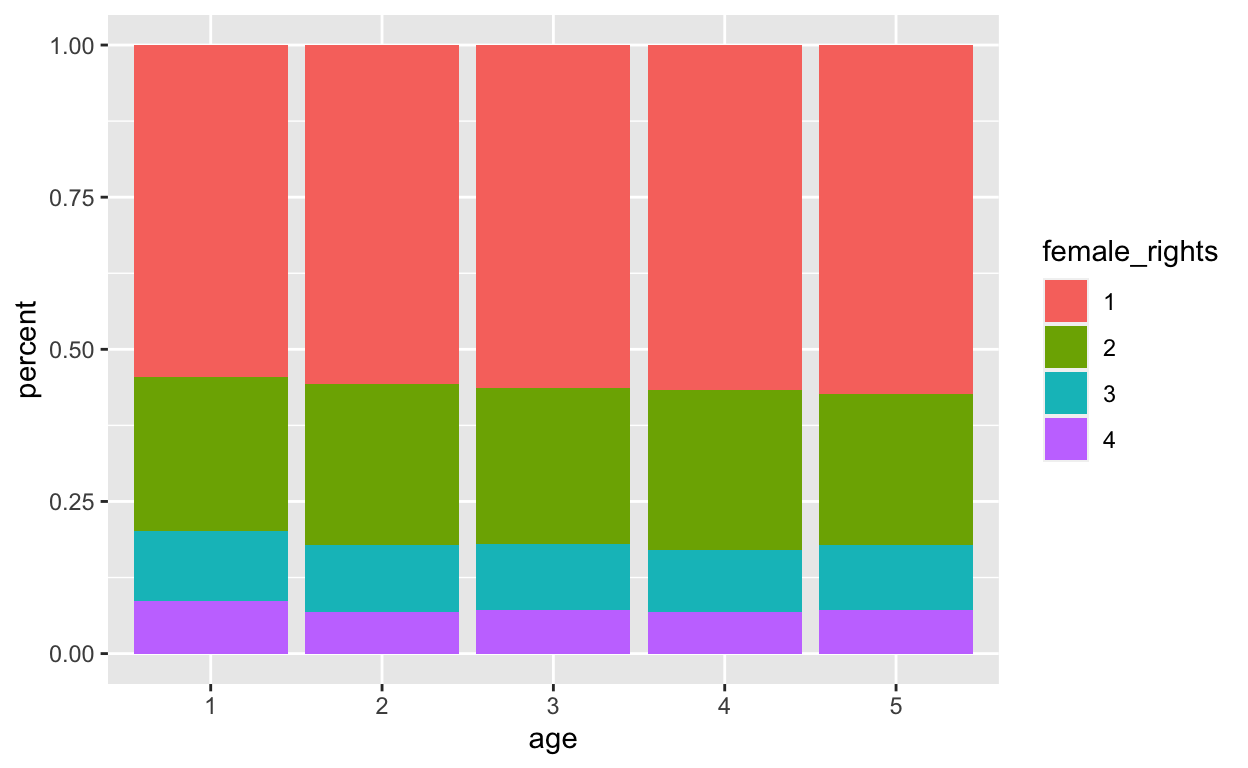
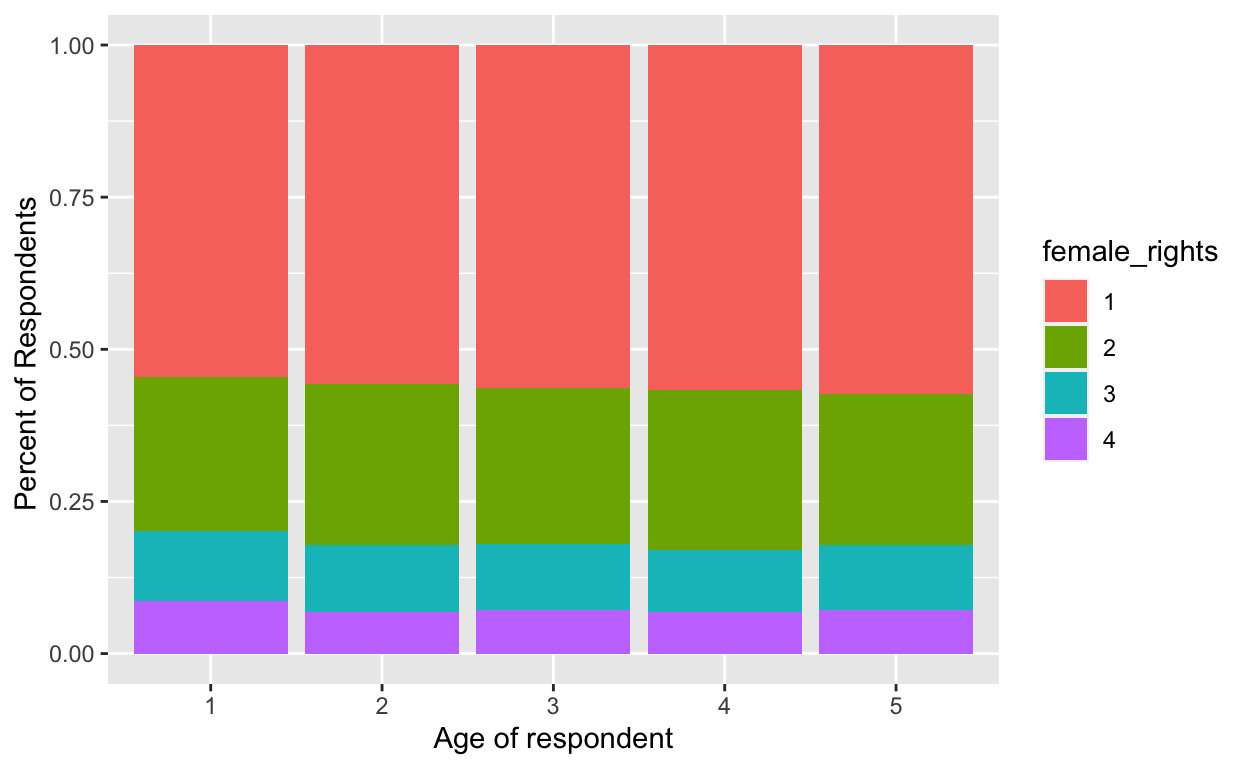
f

Changed region(s): [[0.0, 0.25, 0.0312, 0.6562], [0.3438, 0.9375, 0.5312, 1.0]]

diff --git a/index.html b/index.html
@@ -1561,7 +1561,10 @@ How does age influence Indian’s perceptions of traditional gender roles? I am 
 <div class="sourceCode">
 <pre class="sourceCode r"><code class="sourceCode r"><span><span class='va'>india_plot</span> <span class='op'>&lt;-</span> <span class='va'>india</span> <span class='op'>|&gt;</span></span>
 <span>  <span class='fu'><a href='https://ggplot2.tidyverse.org/reference/ggplot.html'>ggplot</a></span><span class='op'>(</span>mapping <span class='op'>=</span> <span class='fu'><a href='https://ggplot2.tidyverse.org/reference/aes.html'>aes</a></span><span class='op'>(</span>x <span class='op'>=</span> <span class='va'>age</span>, y <span class='op'>=</span> <span class='va'>percent</span>, fill <span class='op'>=</span> <span class='va'>female_rights</span><span class='op'>)</span><span class='op'>)</span> <span class='op'>+</span> </span>
-<span>  <span class='fu'><a href='https://ggplot2.tidyverse.org/reference/geom_bar.html'>geom_col</a></span><span class='op'>(</span><span class='op'>)</span></span>
+<span>  <span class='fu'><a href='https://ggplot2.tidyverse.org/reference/geom_bar.html'>geom_col</a></span><span class='op'>(</span><span class='op'>)</span> <span class='op'>+</span> </span>
+<span>  <span class='fu'><a href='https://ggplot2.tidyverse.org/reference/labs.html'>labs</a></span> <span class='op'>(</span> </span>
+<span>    x <span class='op'>=</span> <span class='st'>"Age of respondent"</span>,</span>
+<span>    y <span class='op'>=</span> <span class='st'>"Percent of Respondents "</span><span class='op'>)</span></span>
 <span><span class='va'>india_plot</span></span></code></pre>
 </div>
 <p><img src="index_files/figure-html5/unnamed-chunk-4-1.png" width="624" /></p>
